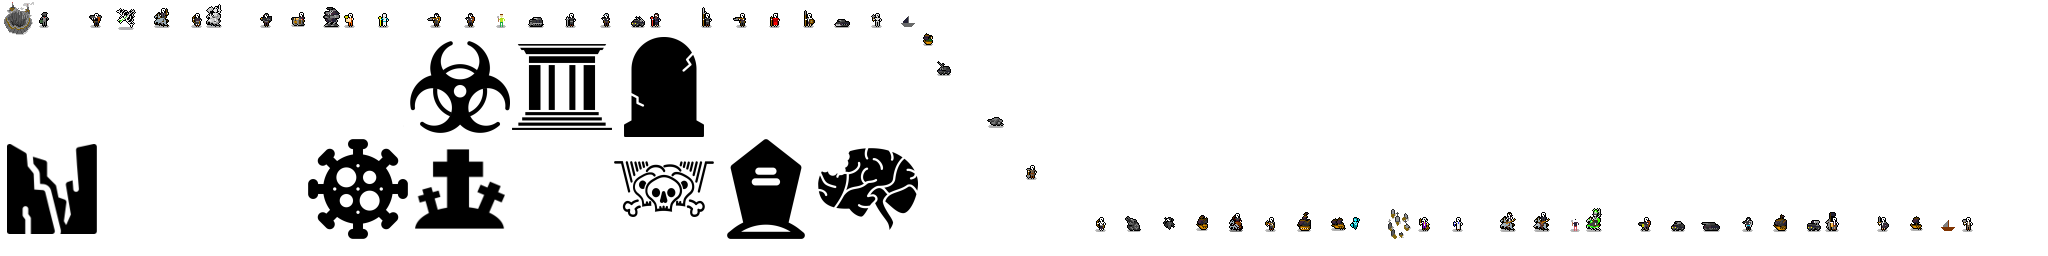
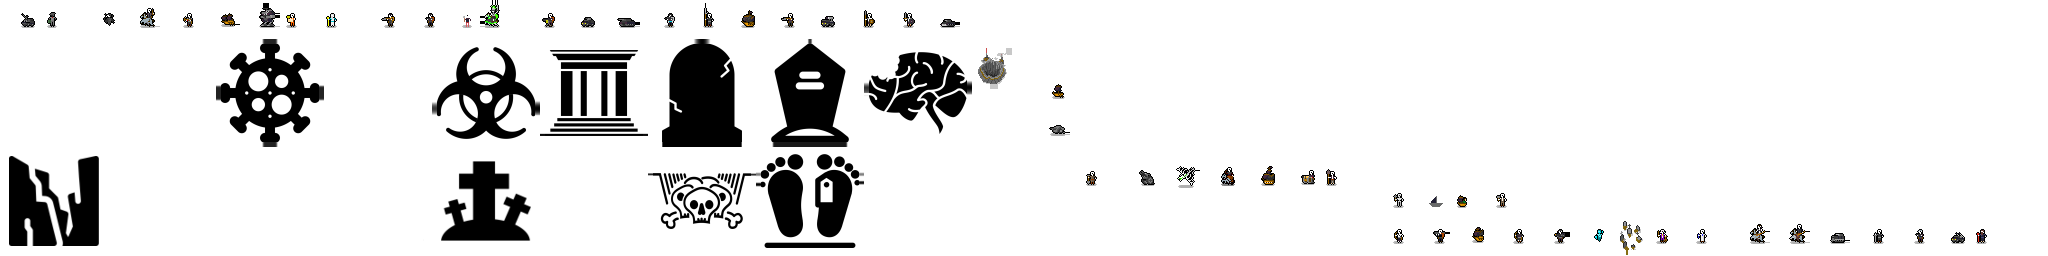
Major balance changes

diff --git a/credits.md b/credits.md
@@ -30,8 +30,6 @@ Necromancer: [necromancy by HeadsOfBirds](https://thenounproject.com/term/necrom
 
 Mass Grave: [Mass Grave by Dan Hetteix](https://thenounproject.com/term/mass-grave/75126/)
 
-Demi-Lich: [Skull by Karsten Barnett](https://thenounproject.com/term/skull/47649/)
-
 Tasty Brains: [Brain by AFY Studio](https://thenounproject.com/term/brain/1455525/)
 
 Breach the Walls: [disruptor by Luis Prado](https://thenounproject.com/term/disruptor/2640915/)
@@ -39,6 +37,10 @@ Breach the Walls: [disruptor by Luis Prado](https://thenounproject.com/term/disr
 Eat the Living: [fork and knife by John Winowiecki](https://thenounproject.com/term/fork-and-knife/3415220/)
 
 Angel of Death: [wings by Luis Prado](https://thenounproject.com/term/wings/51806/)
+
+Morgue: [morgue by MonoGraphic, ES](https://thenounproject.com/term/morgue/3836271/)
+
+Gravedigger: [Shovel by Milinda Courey](https://thenounproject.com/term/shovel/231777/)
 
 Pixel art:
 
